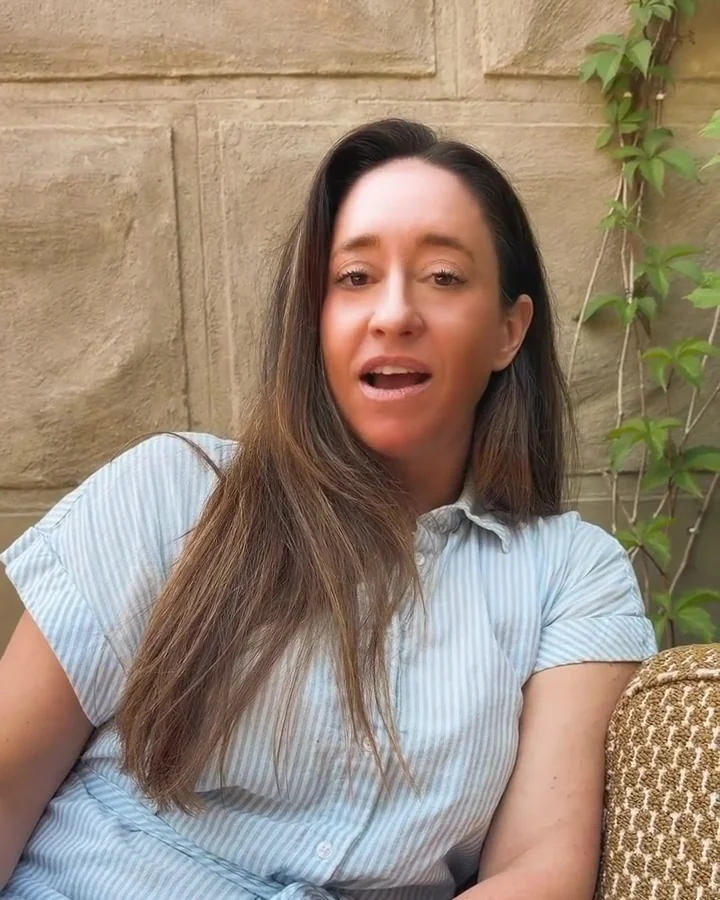
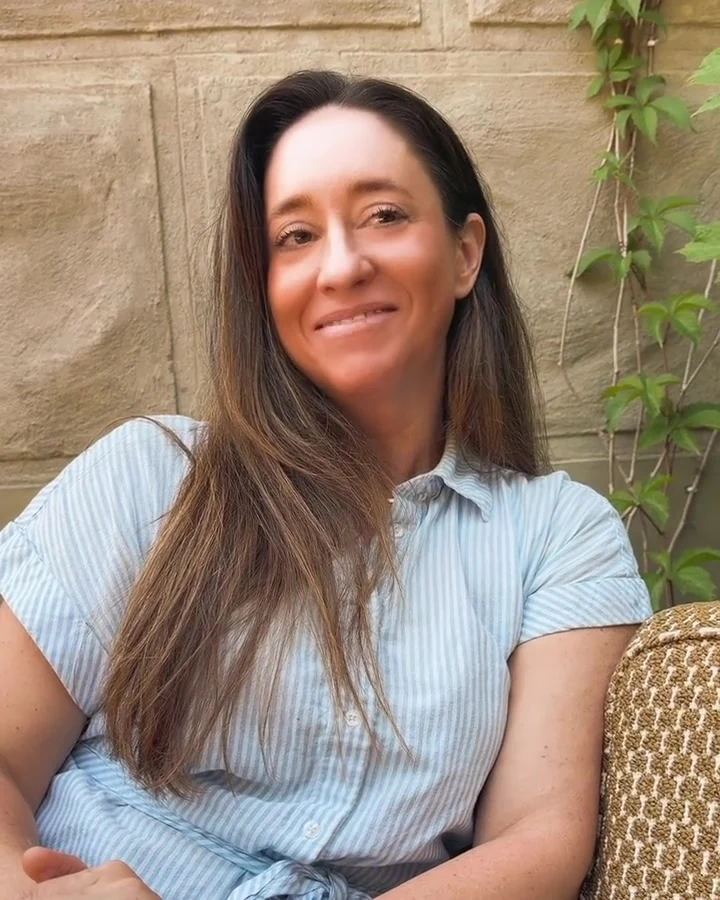
The 30.0s frame becomes the poster

diff --git a/site/app/HeroVideo.tsx b/site/app/HeroVideo.tsx
@@ -11,13 +11,10 @@ import { useRef, useState } from "react";
  * Sampling harder does not fix that, it just costs more time to arrive at the
  * same answer.
  *
- * So the resting state is designed instead of captured. A navy panel in the
- * site's own type, with the one control it needs. It cannot be unflattering,
- * it is sharp at any density because it is text rather than a 720px still,
- * and it reads as deliberate, which a bad still never does.
- *
- * If a portrait Anna likes turns up later, this becomes an <img> behind the
- * same button and nothing else changes.
+ * Sixty frames were reviewed at half-second intervals. 30.0s is the chosen
+ * one and it is the last frame of the clip, which is not a coincidence: the
+ * speaker has stopped talking and the face has settled. If a proper portrait
+ * turns up later it drops straight into this <img> and nothing else changes.
  */
 export default function HeroVideo() {
   const video = useRef<HTMLVideoElement | null>(null);
@@ -44,13 +41,27 @@ export default function HeroVideo() {
 
       {playing ? null : (
         <button className="home-video-cover" type="button" onClick={start}>
-          <span className="home-video-play" aria-hidden="true">
-            ▶
+          {/* The still is the frame at 30.0s, the last of the clip: the only
+              one where the eyes are open, the mouth is closed and the
+              expression has settled. Every other frame is mid-speech, which is
+              why they read as unflattering. Decorative here, because the
+              button's own text says what pressing it does. */}
+          <img
+            className="home-video-still"
+            src="/meet-anna-poster.webp"
+            alt=""
+            width={720}
+            height={900}
+          />
+          <span className="home-video-cover-inner">
+            <span className="home-video-play" aria-hidden="true">
+              ▶
+            </span>
+            <span className="home-video-cover-title">
+              Thirty seconds, in my own voice.
+            </span>
+            <span className="home-video-cover-cta">Play the introduction</span>
           </span>
-          <span className="home-video-cover-title">
-            Thirty seconds, in my own voice.
-          </span>
-          <span className="home-video-cover-cta">Play the introduction</span>
         </button>
       )}
 

diff --git a/site/app/globals.css b/site/app/globals.css
@@ -4863,6 +4863,29 @@ blockquote {
   position: absolute;
   inset: 0;
   z-index: 2;
+  display: block;
+  padding: 0;
+  border: 0;
+  background: none;
+  color: #fff;
+  text-align: left;
+  cursor: pointer;
+}
+
+.home-video-still {
+  position: absolute;
+  inset: 0;
+  width: 100%;
+  height: 100%;
+  object-fit: cover;
+  object-position: center 22%;
+}
+
+/* A scrim, not a wash. Only the bottom third darkens, enough to hold white
+   type over a bright outdoor frame without dulling the face above it. */
+.home-video-cover-inner {
+  position: absolute;
+  inset: 0;
   display: flex;
   flex-direction: column;
   align-items: flex-start;
@@ -4870,11 +4893,12 @@ blockquote {
   gap: 14px;
   padding: clamp(24px, 4vw, 38px);
   padding-bottom: 84px;
-  border: 0;
-  background: var(--blue);
-  color: #fff;
-  text-align: left;
-  cursor: pointer;
+  background: linear-gradient(
+    to top,
+    rgba(9, 30, 52, 0.88) 0%,
+    rgba(9, 30, 52, 0.6) 34%,
+    rgba(9, 30, 52, 0) 66%
+  );
 }
 
 .home-video-play {
